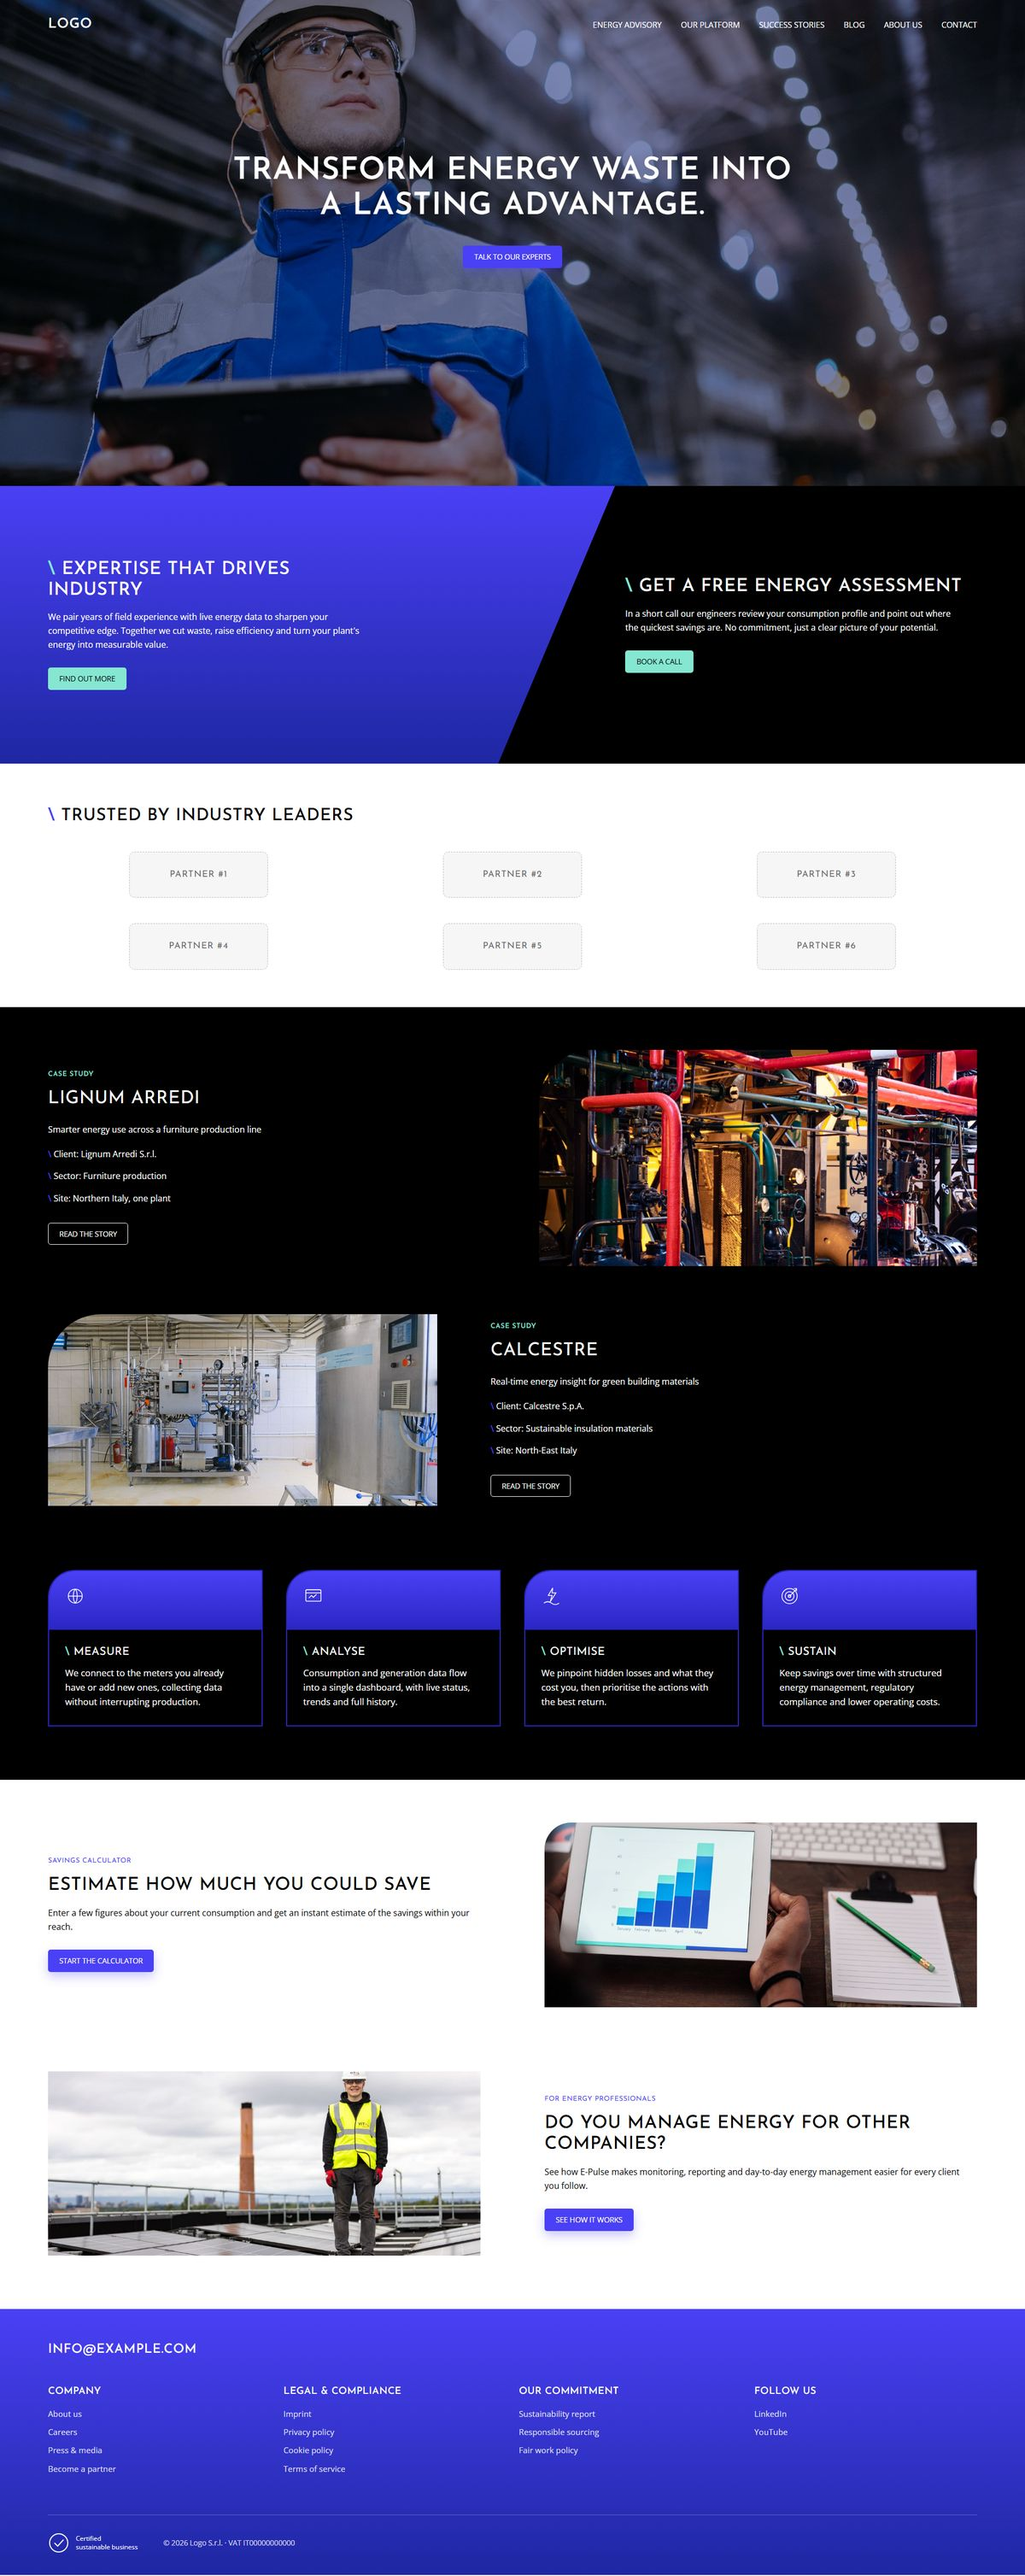
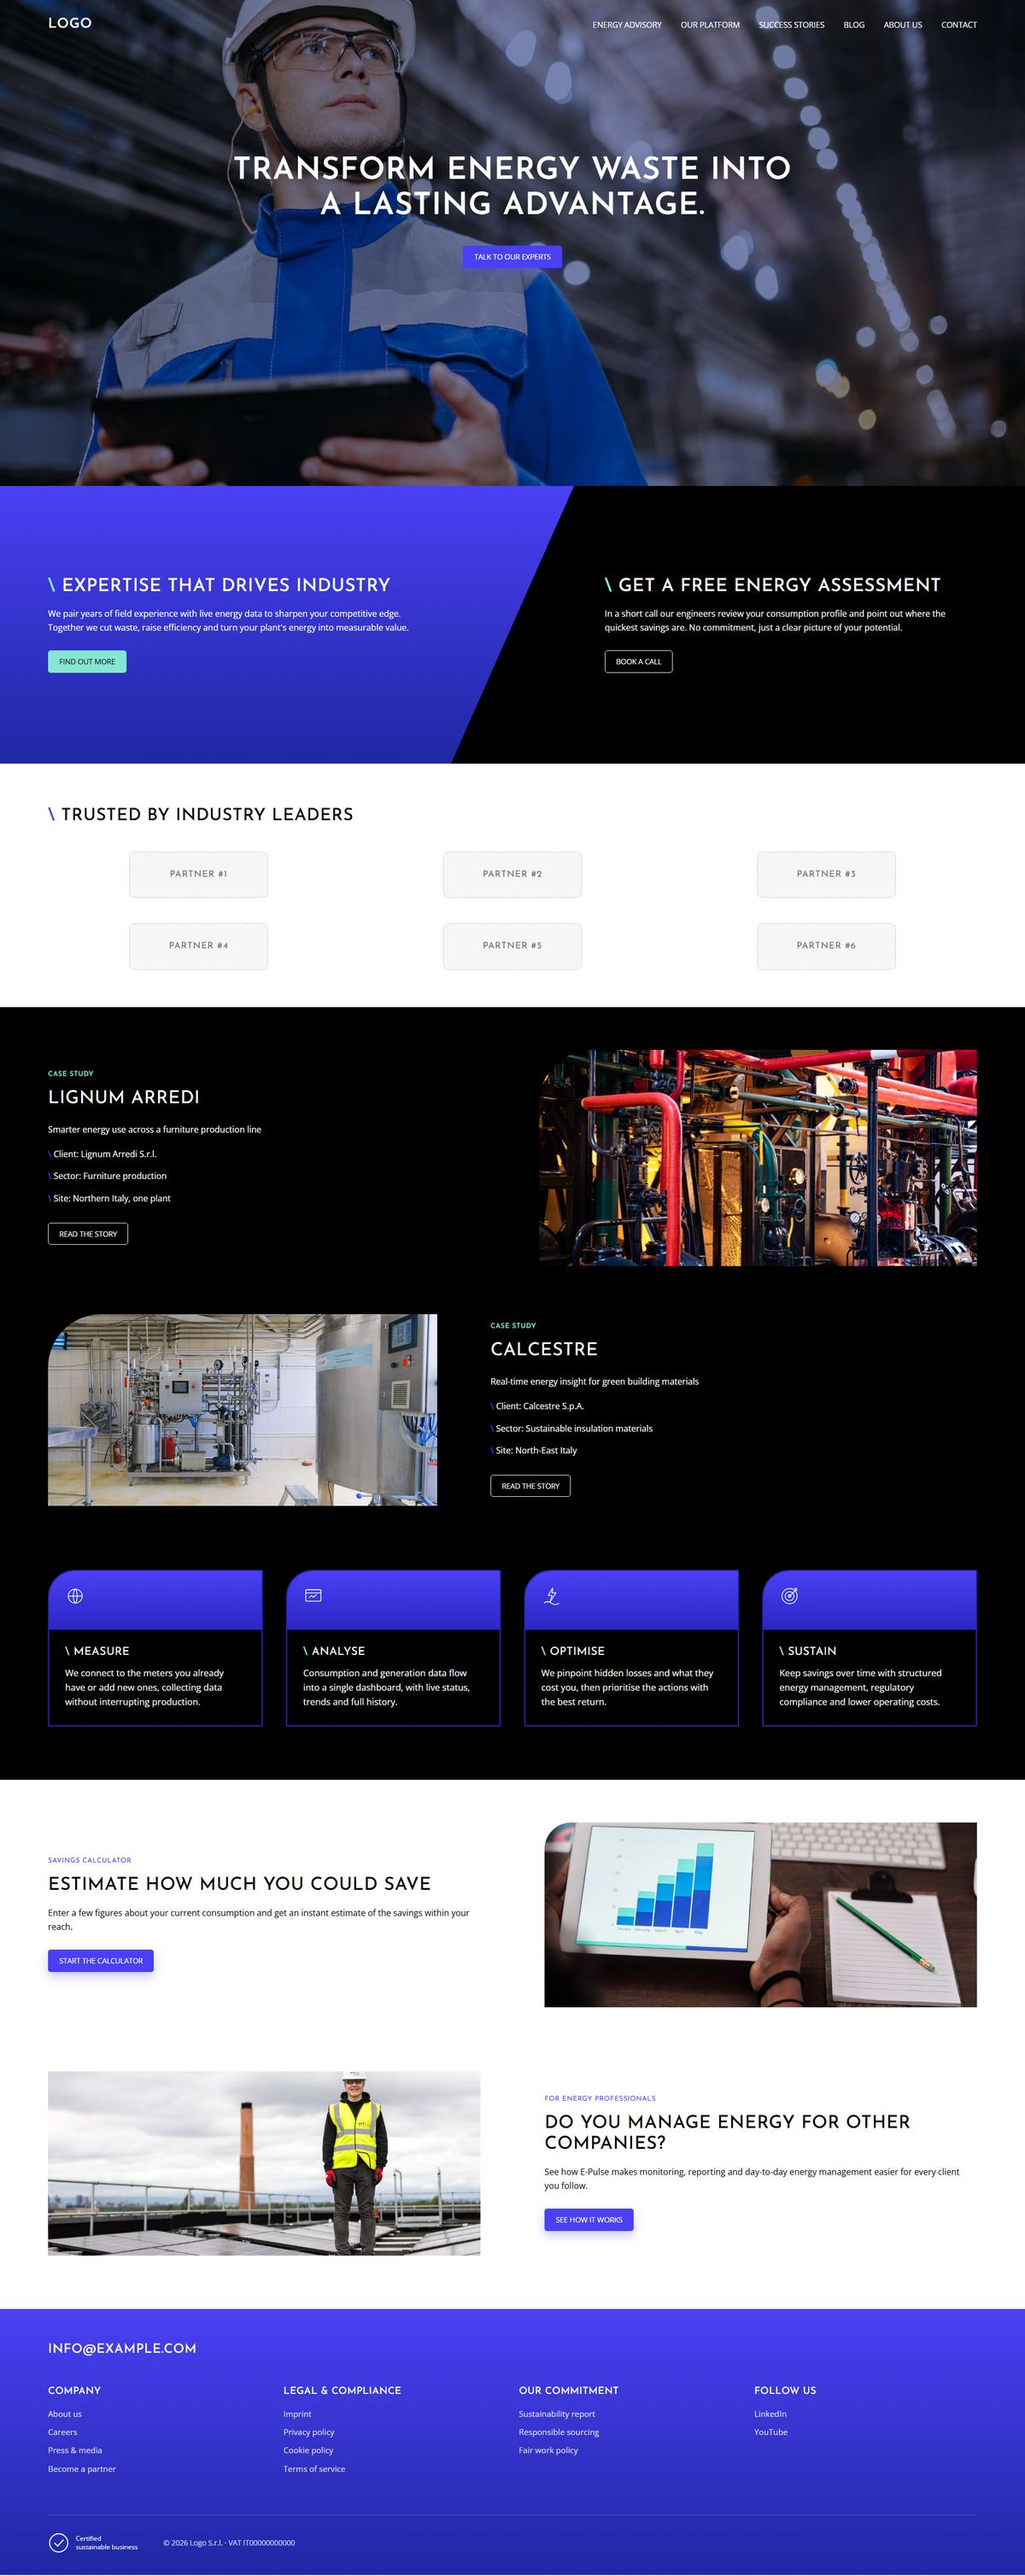
Energy demo: 50/50 insight split, ghost Book a call button

Changed region(s): [[0.4317, 0.1871, 0.925, 0.3118], [0.0308, 0.2182, 0.4008, 0.2806]]

diff --git a/energia/assets/css/main.css b/energia/assets/css/main.css
@@ -1,1 +1,1 @@
-*,*::before,*::after{box-sizing:border-box}html{scroll-behavior:smooth}body{margin:0;background:#fff;color:#000;font:400 16px/1.6 "Open Sans",system-ui,sans-serif;-webkit-font-smoothing:antialiased}img{display:block;max-width:100%;height:auto}a{color:inherit}h1,h2,h3{margin:0;font-family:"Josefin Sans",sans-serif;font-weight:500;text-transform:uppercase;letter-spacing:.02em;line-height:1.15}.btn{display:inline-block;padding:13px 20px;border:1px solid rgba(0,0,0,0);border-radius:5px;font:400 .85rem/1 "Open Sans",system-ui,sans-serif;text-transform:uppercase;text-decoration:none;transition:filter .2s,background .2s,color .2s}.btn:hover{filter:brightness(1.1)}.btn--violet{background:#4a40f5;color:#fff;box-shadow:0 8px 20px rgba(74,64,245,.3)}.btn--teal{background:#85e6d1;color:#000}.btn--outline{border-color:#fff;color:#fff}.btn--outline:hover{background:#fff;color:#000}.slash::before{content:"\\ ";color:#85e6d1;font-weight:600}.slash--violet::before{color:#4a40f5}.kicker{display:block;margin-bottom:20px;font:600 .8rem/1 "Josefin Sans",sans-serif;letter-spacing:.04em;text-transform:uppercase;color:#85e6d1}.kicker--violet{color:#4a40f5;font-weight:400}.header{position:absolute;inset:0 0 auto;z-index:10;color:#fff}.header__inner{display:flex;align-items:center;justify-content:space-between;padding:28px clamp(20px,4.7vw,90px)}.header__toggle{display:flex;flex-direction:column;gap:5px;padding:10px;border:0;background:none;cursor:pointer}.header__toggle span{width:24px;height:2px;background:#fff}@media(min-width: 1100px){.header__toggle{display:none}}.header__nav{display:none;position:absolute;top:90px;left:0;right:0;flex-direction:column;padding:12px clamp(20px,4.7vw,90px) 20px;background:rgba(0,0,0,.92)}.header__nav.is-open{display:flex}@media(min-width: 1100px){.header__nav{display:flex;position:static;flex-direction:row;gap:36px;padding:0;background:none}}.header__nav a{padding:8px 0;font:400 .92rem "Open Sans",system-ui,sans-serif;text-transform:uppercase;text-decoration:none}.header__nav a:hover{color:#85e6d1}.logo{font:600 1.6rem/1 "Josefin Sans",sans-serif;letter-spacing:.04em;text-transform:uppercase;text-decoration:none}.hero{display:flex;flex-direction:column;align-items:center;justify-content:center;gap:40px;min-height:600px;padding:140px 20px 80px;text-align:center;color:#fff;background:linear-gradient(rgba(10, 30, 110, 0.55), rgba(10, 30, 110, 0.55)),url("../img/hero.jpg") center 30%/cover;background-blend-mode:multiply}@media(min-width: 1100px){.hero{min-height:910px;padding-bottom:260px}}.hero h1{font-size:clamp(2rem,4.2vw,3.6rem);font-weight:600;text-shadow:0 2px 20px rgba(0,0,0,.3)}.insight{display:grid;background:#000}@media(min-width: 1100px){.insight{grid-template-columns:1fr 1fr;min-height:520px}}.insight__panel{display:flex;flex-direction:column;justify-content:center;align-items:flex-start;padding:64px clamp(20px,4.7vw,90px);background:linear-gradient(180deg, #4a40f5, #1e27a2);color:#fff}@media(min-width: 1100px){.insight__panel{grid-column:1/3;grid-row:1;width:60%;padding-right:22%;clip-path:polygon(0 0, 100% 0, 81% 100%, 0 100%)}}.insight__panel h2{margin-bottom:18px;font-size:clamp(1.5rem,2.2vw,2.1rem)}.insight__panel p{max-width:610px;margin:0 0 30px;font-size:1rem}.insight__cta{display:flex;flex-direction:column;justify-content:center;align-items:flex-start;gap:28px;padding:56px clamp(20px,4.7vw,90px)}@media(min-width: 1100px){.insight__cta{grid-column:2;grid-row:1;padding:0 clamp(20px,4.7vw,90px) 0 22%}}.insight__cta{color:#fff}.insight__cta h2{font-size:clamp(1.5rem,2.2vw,2.1rem)}.insight__cta p{max-width:610px;margin:-10px 0 2px;font-size:1rem}.clients{padding:80px clamp(20px,4.7vw,90px) 70px}.clients h2{margin-bottom:48px;font-size:clamp(1.4rem,2vw,2rem)}.clients__grid{display:grid;grid-template-columns:repeat(2, 1fr);gap:48px 24px;margin:0;padding:0;list-style:none}@media(min-width: 768px){.clients__grid{grid-template-columns:repeat(3, 1fr)}}.partner{display:grid;place-items:center;width:100%;max-width:260px;aspect-ratio:3/1;margin:0 auto;border:1.5px dashed #bdbdbd;border-radius:10px;background:#f6f6f6;font:400 1.05rem/1 "Josefin Sans",sans-serif;letter-spacing:.06em;text-transform:uppercase;color:#6b6b6b}.cases{display:grid;gap:90px;padding:80px clamp(20px,4.7vw,90px) 40px;background:#000;color:#fff}.case{display:grid;gap:32px;align-items:center}@media(min-width: 1100px){.case{grid-template-columns:1fr 1fr;gap:100px}}.case h3{margin-bottom:26px;font-size:2.1rem;font-weight:400}.case p{margin:0 0 20px}.case ul{margin:0 0 32px;padding:0;list-style:none}.case li{margin-bottom:16px}.case li::before{content:"\\ ";color:#4a40f5;font-weight:700}.case__img{width:100%;aspect-ratio:770/380;object-fit:cover;border-top-left-radius:100px}@media(min-width: 1100px){.case--reverse{grid-template-columns:.8fr 1fr}.case--reverse .case__text{order:2}}.case--reverse .kicker{margin-bottom:20px}@media(min-width: 1100px){.case--reverse .case__img{aspect-ratio:770/380}}.process{padding:80px clamp(20px,4.7vw,90px) 100px;background:#000;color:#fff}.process>h2{margin-bottom:18px;font-size:clamp(1.4rem,2vw,2rem)}.process>p{margin:0 0 30px}.process__grid{display:grid;gap:44px;margin-top:0}@media(min-width: 768px){.process__grid{grid-template-columns:repeat(2, 1fr)}}@media(min-width: 1100px){.process__grid{grid-template-columns:repeat(4, 1fr)}}.step{border:2px solid #2a26c4;border-top-left-radius:50px;overflow:hidden}.step__head{height:110px;padding:28px 30px;background:linear-gradient(180deg, #4a40f5, #2a26c4)}.step__head svg{width:38px;height:38px;fill:none;stroke:#fff;stroke-width:1.3}.step h3{margin:30px 30px 14px;font-size:1.3rem;font-weight:400}.step p{margin:0 30px 30px;font-size:1.05rem}.feature{display:grid;gap:36px;align-items:center;padding:80px clamp(20px,4.7vw,90px) 40px}@media(min-width: 1100px){.feature{grid-template-columns:1fr 1fr;gap:120px}}.feature h2{margin-bottom:20px;font-size:clamp(1.5rem,2.2vw,2.1rem)}.feature p{max-width:800px;margin:0 0 30px;font-size:1rem}.feature__img{width:100%;aspect-ratio:820/350;object-fit:cover;border-top-left-radius:50px}.feature--reverse{padding-bottom:100px}@media(min-width: 1100px){.feature--reverse .feature__text{order:2}}.feature--reverse .feature__img{border-radius:0}span.btn{pointer-events:none;cursor:default}.footer{padding:64px clamp(20px,4.7vw,90px) 40px;background:linear-gradient(180deg, #4a40f5, #1e27a2);color:#fff}.footer__top{display:flex;flex-wrap:wrap;align-items:center;justify-content:space-between;gap:20px;margin-bottom:56px}.footer__mail{font:500 clamp(1.1rem, 1.6vw, 1.5rem)/1 "Josefin Sans",sans-serif;text-transform:uppercase;letter-spacing:.03em}.footer__cols{display:grid;gap:40px 24px}@media(min-width: 768px){.footer__cols{grid-template-columns:repeat(2, 1fr)}}@media(min-width: 1100px){.footer__cols{grid-template-columns:repeat(4, 1fr)}}.footer__cols h2{margin-bottom:18px;font-size:1.15rem;font-weight:500}.footer__cols ul{margin:0;padding:0;list-style:none}.footer__cols li{margin-bottom:10px;font-size:.95rem;color:rgba(255,255,255,.85)}.footer__bottom{display:grid;gap:32px;align-items:center;margin-top:64px;padding-top:32px;border-top:1px solid rgba(255,255,255,.25)}@media(min-width: 1100px){.footer__bottom{grid-template-columns:auto 1fr;gap:48px}}.footer__bottom>p{margin:0;font-size:.85rem;color:rgba(255,255,255,.8)}.footer__badge{display:flex;align-items:center;gap:12px;font-size:.75rem;line-height:1.3}.footer__badge svg{width:40px;height:40px;fill:none;stroke:#fff;stroke-width:2}
+*,*::before,*::after{box-sizing:border-box}html{scroll-behavior:smooth}body{margin:0;background:#fff;color:#000;font:400 16px/1.6 "Open Sans",system-ui,sans-serif;-webkit-font-smoothing:antialiased}img{display:block;max-width:100%;height:auto}a{color:inherit}h1,h2,h3{margin:0;font-family:"Josefin Sans",sans-serif;font-weight:500;text-transform:uppercase;letter-spacing:.02em;line-height:1.15}.btn{display:inline-block;padding:13px 20px;border:1px solid rgba(0,0,0,0);border-radius:5px;font:400 .85rem/1 "Open Sans",system-ui,sans-serif;text-transform:uppercase;text-decoration:none;transition:filter .2s,background .2s,color .2s}.btn:hover{filter:brightness(1.1)}.btn--violet{background:#4a40f5;color:#fff;box-shadow:0 8px 20px rgba(74,64,245,.3)}.btn--teal{background:#85e6d1;color:#000}.btn--outline{border-color:#fff;color:#fff}.btn--outline:hover{background:#fff;color:#000}.btn--ghost{border-color:#fff;background:rgba(0,0,0,0);color:#fff;transition:background .25s,color .25s,border-color .25s}.btn--ghost:hover{border-color:#85e6d1;background:#85e6d1;color:#000}.slash::before{content:"\\ ";color:#85e6d1;font-weight:600}.slash--violet::before{color:#4a40f5}.kicker{display:block;margin-bottom:20px;font:600 .8rem/1 "Josefin Sans",sans-serif;letter-spacing:.04em;text-transform:uppercase;color:#85e6d1}.kicker--violet{color:#4a40f5;font-weight:400}.header{position:absolute;inset:0 0 auto;z-index:10;color:#fff}.header__inner{display:flex;align-items:center;justify-content:space-between;padding:28px clamp(20px,4.7vw,90px)}.header__toggle{display:flex;flex-direction:column;gap:5px;padding:10px;border:0;background:none;cursor:pointer}.header__toggle span{width:24px;height:2px;background:#fff}@media(min-width: 1100px){.header__toggle{display:none}}.header__nav{display:none;position:absolute;top:90px;left:0;right:0;flex-direction:column;padding:12px clamp(20px,4.7vw,90px) 20px;background:rgba(0,0,0,.92)}.header__nav.is-open{display:flex}@media(min-width: 1100px){.header__nav{display:flex;position:static;flex-direction:row;gap:36px;padding:0;background:none}}.header__nav a{padding:8px 0;font:400 .92rem "Open Sans",system-ui,sans-serif;text-transform:uppercase;text-decoration:none}.header__nav a:hover{color:#85e6d1}.logo{font:600 1.6rem/1 "Josefin Sans",sans-serif;letter-spacing:.04em;text-transform:uppercase;text-decoration:none}.hero{display:flex;flex-direction:column;align-items:center;justify-content:center;gap:40px;min-height:600px;padding:140px 20px 80px;text-align:center;color:#fff;background:linear-gradient(rgba(10, 30, 110, 0.55), rgba(10, 30, 110, 0.55)),url("../img/hero.jpg") center 30%/cover;background-blend-mode:multiply}@media(min-width: 1100px){.hero{min-height:910px;padding-bottom:260px}}.hero h1{font-size:clamp(2rem,4.2vw,3.6rem);font-weight:600;text-shadow:0 2px 20px rgba(0,0,0,.3)}.insight{display:grid;background:#000}@media(min-width: 1100px){.insight{grid-template-columns:1fr 1fr;min-height:520px}}.insight__panel{display:flex;flex-direction:column;justify-content:center;align-items:flex-start;padding:64px clamp(20px,4.7vw,90px);background:linear-gradient(180deg, #4a40f5, #1e27a2);color:#fff}@media(min-width: 1100px){.insight__panel{grid-column:1/3;grid-row:1;width:56%;padding-right:calc(12% + 3vw);clip-path:polygon(0 0, 100% 0, 78.57% 100%, 0 100%)}}.insight__panel h2{margin-bottom:18px;font-size:clamp(1.5rem,2.2vw,2.1rem)}.insight__panel p{margin:0 0 30px;font-size:1rem}.insight__cta{display:flex;flex-direction:column;justify-content:center;align-items:flex-start;gap:28px;padding:56px clamp(20px,4.7vw,90px)}@media(min-width: 1100px){.insight__cta{grid-column:1/3;grid-row:1;padding:0 clamp(20px,4.7vw,90px) 0 calc(56% + 3vw)}}.insight__cta{color:#fff}.insight__cta h2{font-size:clamp(1.5rem,2.2vw,2.1rem)}.insight__cta p{margin:-10px 0 2px;font-size:1rem}.clients{padding:80px clamp(20px,4.7vw,90px) 70px}.clients h2{margin-bottom:48px;font-size:clamp(1.4rem,2vw,2rem)}.clients__grid{display:grid;grid-template-columns:repeat(2, 1fr);gap:48px 24px;margin:0;padding:0;list-style:none}@media(min-width: 768px){.clients__grid{grid-template-columns:repeat(3, 1fr)}}.partner{display:grid;place-items:center;width:100%;max-width:260px;aspect-ratio:3/1;margin:0 auto;border:1.5px dashed #bdbdbd;border-radius:10px;background:#f6f6f6;font:400 1.05rem/1 "Josefin Sans",sans-serif;letter-spacing:.06em;text-transform:uppercase;color:#6b6b6b}.cases{display:grid;gap:90px;padding:80px clamp(20px,4.7vw,90px) 40px;background:#000;color:#fff}.case{display:grid;gap:32px;align-items:center}@media(min-width: 1100px){.case{grid-template-columns:1fr 1fr;gap:100px}}.case h3{margin-bottom:26px;font-size:2.1rem;font-weight:400}.case p{margin:0 0 20px}.case ul{margin:0 0 32px;padding:0;list-style:none}.case li{margin-bottom:16px}.case li::before{content:"\\ ";color:#4a40f5;font-weight:700}.case__img{width:100%;aspect-ratio:770/380;object-fit:cover;border-top-left-radius:100px}@media(min-width: 1100px){.case--reverse{grid-template-columns:.8fr 1fr}.case--reverse .case__text{order:2}}.case--reverse .kicker{margin-bottom:20px}@media(min-width: 1100px){.case--reverse .case__img{aspect-ratio:770/380}}.process{padding:80px clamp(20px,4.7vw,90px) 100px;background:#000;color:#fff}.process>h2{margin-bottom:18px;font-size:clamp(1.4rem,2vw,2rem)}.process>p{margin:0 0 30px}.process__grid{display:grid;gap:44px;margin-top:0}@media(min-width: 768px){.process__grid{grid-template-columns:repeat(2, 1fr)}}@media(min-width: 1100px){.process__grid{grid-template-columns:repeat(4, 1fr)}}.step{border:2px solid #2a26c4;border-top-left-radius:50px;overflow:hidden}.step__head{height:110px;padding:28px 30px;background:linear-gradient(180deg, #4a40f5, #2a26c4)}.step__head svg{width:38px;height:38px;fill:none;stroke:#fff;stroke-width:1.3}.step h3{margin:30px 30px 14px;font-size:1.3rem;font-weight:400}.step p{margin:0 30px 30px;font-size:1.05rem}.feature{display:grid;gap:36px;align-items:center;padding:80px clamp(20px,4.7vw,90px) 40px}@media(min-width: 1100px){.feature{grid-template-columns:1fr 1fr;gap:120px}}.feature h2{margin-bottom:20px;font-size:clamp(1.5rem,2.2vw,2.1rem)}.feature p{max-width:800px;margin:0 0 30px;font-size:1rem}.feature__img{width:100%;aspect-ratio:820/350;object-fit:cover;border-top-left-radius:50px}.feature--reverse{padding-bottom:100px}@media(min-width: 1100px){.feature--reverse .feature__text{order:2}}.feature--reverse .feature__img{border-radius:0}span.btn{pointer-events:none;cursor:default}span.btn--ghost{pointer-events:auto}.footer{padding:64px clamp(20px,4.7vw,90px) 40px;background:linear-gradient(180deg, #4a40f5, #1e27a2);color:#fff}.footer__top{display:flex;flex-wrap:wrap;align-items:center;justify-content:space-between;gap:20px;margin-bottom:56px}.footer__mail{font:500 clamp(1.1rem, 1.6vw, 1.5rem)/1 "Josefin Sans",sans-serif;text-transform:uppercase;letter-spacing:.03em}.footer__cols{display:grid;gap:40px 24px}@media(min-width: 768px){.footer__cols{grid-template-columns:repeat(2, 1fr)}}@media(min-width: 1100px){.footer__cols{grid-template-columns:repeat(4, 1fr)}}.footer__cols h2{margin-bottom:18px;font-size:1.15rem;font-weight:500}.footer__cols ul{margin:0;padding:0;list-style:none}.footer__cols li{margin-bottom:10px;font-size:.95rem;color:rgba(255,255,255,.85)}.footer__bottom{display:grid;gap:32px;align-items:center;margin-top:64px;padding-top:32px;border-top:1px solid rgba(255,255,255,.25)}@media(min-width: 1100px){.footer__bottom{grid-template-columns:auto 1fr;gap:48px}}.footer__bottom>p{margin:0;font-size:.85rem;color:rgba(255,255,255,.8)}.footer__badge{display:flex;align-items:center;gap:12px;font-size:.75rem;line-height:1.3}.footer__badge svg{width:40px;height:40px;fill:none;stroke:#fff;stroke-width:2}

diff --git a/energia/assets/scss/main.scss b/energia/assets/scss/main.scss
@@ -8,6 +8,7 @@ $head: "Josefin Sans", sans-serif;
 $body: "Open Sans", system-ui, sans-serif;
 
 $pad: clamp(20px, 4.7vw, 90px);
+$split-gap: 3vw;
 
 @mixin md { @media (min-width: 768px) { @content; } }
 @mixin lg { @media (min-width: 1100px) { @content; } }
@@ -34,6 +35,14 @@ h1, h2, h3 { margin: 0; font-family: $head; font-weight: 500; text-transform: up
   &--violet { background: $violet; color: $white; box-shadow: 0 8px 20px rgba($violet, .3); }
   &--teal { background: $teal; color: $black; }
   &--outline { border-color: $white; color: $white; &:hover { background: $white; color: $black; } }
+  &--ghost {
+    border-color: $white;
+    background: transparent;
+    color: $white;
+    transition: background .25s, color .25s, border-color .25s;
+
+    &:hover { border-color: $teal; background: $teal; color: $black; }
+  }
 }
 
 // "\ " marker before headings
@@ -124,16 +133,18 @@ h1, h2, h3 { margin: 0; font-family: $head; font-weight: 500; text-transform: up
     background: linear-gradient(180deg, #4a40f5, $violet-dark);
     color: $white;
 
+    // 50/50 split: the diagonal runs from 56% to 44%, centred on the middle line;
+    // both text columns get the same width (44% - gap - side padding)
     @include lg {
       grid-column: 1 / 3;
       grid-row: 1;
-      width: 60%;
-      padding-right: 22%;
-      clip-path: polygon(0 0, 100% 0, 81% 100%, 0 100%);
+      width: 56%;
+      padding-right: calc(12% + #{$split-gap});
+      clip-path: polygon(0 0, 100% 0, 78.57% 100%, 0 100%);
     }
 
     h2 { margin-bottom: 18px; font-size: clamp(1.5rem, 2.2vw, 2.1rem); }
-    p { max-width: 610px; margin: 0 0 30px; font-size: 1rem; }
+    p { margin: 0 0 30px; font-size: 1rem; }
   }
 
   &__cta {
@@ -144,12 +155,12 @@ h1, h2, h3 { margin: 0; font-family: $head; font-weight: 500; text-transform: up
     gap: 28px;
     padding: 56px $pad;
 
-    @include lg { grid-column: 2; grid-row: 1; padding: 0 $pad 0 22%; }
+    @include lg { grid-column: 1 / 3; grid-row: 1; padding: 0 $pad 0 calc(56% + #{$split-gap}); }
 
     color: $white;
 
     h2 { font-size: clamp(1.5rem, 2.2vw, 2.1rem); }
-    p { max-width: 610px; margin: -10px 0 2px; font-size: 1rem; }
+    p { margin: -10px 0 2px; font-size: 1rem; }
   }
 
 }
@@ -293,6 +304,8 @@ h1, h2, h3 { margin: 0; font-family: $head; font-weight: 500; text-transform: up
 
 // demo: CTAs are not links
 span.btn { pointer-events: none; cursor: default; }
+// hover effect kept on this one (still not a link)
+span.btn--ghost { pointer-events: auto; }
 
 // ---------- footer ----------
 .footer {

diff --git a/energia/index.html b/energia/index.html
@@ -42,7 +42,7 @@
       <div class="insight__cta" id="consultation">
         <h2 class="slash">Get a free energy assessment</h2>
         <p>In a short call our engineers review your consumption profile and point out where the quickest savings are. No commitment, just a clear picture of your potential.</p>
-        <span class="btn btn--teal">Book a call</span>
+        <span class="btn btn--ghost">Book a call</span>
       </div>
     </section>
 
